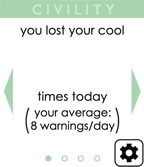
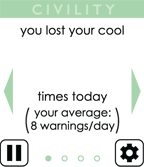
save functions

Changed region(s): [[0.0, 0.8084, 0.2222, 1.0], [0.8333, 0.8383, 1.0, 1.0], [0.7778, 0.8383, 0.8333, 1.0]]

diff --git a/main.html b/main.html
@@ -11,19 +11,18 @@
 </head>
 <body>
     <div class="background">
-        <img src="Images/warning_total.png">
-
-        <div class="bars_container">
-            <div class="bar1"><p class="bar_descrip">9/20: </p><p class="bar_val">5</p></div>
-            <div class="bar2"><p class="bar_descrip">9/19: </p><p class="bar_val">10</p></div>
-            <div class="bar3"><p class="bar_descrip">9/18: </p><p class="bar_val">8</p></div>
-            <div class="bar4"><p class="bar_descrip">9/17: </p><p class="bar_val">9</p></div>
+        <img src="Images/warning_home.png">
+        <div id="count_container">
+            <p id="count">0</p>
         </div>
 
-        <a href="main.html" class="right"><img src="Images/r_arrow.png"></a>
-        <a href="speed.html" class="left"><img src="Images/l_arrow.png"></a>
+        <a href="volume.html" class="right"><img src="Images/r_arrow.png"></a>
+        <a href="total.html" class="left"><img src="Images/l_arrow.png"></a>
+        <a href="settings.html" id="settings_button"><img src ="Images/settings_button.png"></a>
+        <a href="paused.html"><button id="pause_button"></button></a>
         <button id="test">test v</button>
         <button id="test2">test s</button>
+        <button id="increment_count">count+</button>
     </div>
      <div id="pop_up_cont">
         <img src="Images/volume_pop_up.png" id="volume_p">
@@ -32,12 +31,33 @@
     </div>
     <script>
         var fb_ref = new Firebase('https://blistering-fire-8006.firebaseio.com/');
+        var data = new Firebase('https://data-storage.firebaseio.com/');
         fb_ref.onDisconnect().remove();
+        var count = document.getElementById('count');
+        var count_button = document.getElementById('increment_count');
         var test_vol_button = document.getElementById('test');
         var test_speed_button = document.getElementById('test2');
         var vol_pop = document.getElementById('volume_p');
         var speed_pop = document.getElementById('speed_p');
         var ex = document.getElementById('exit');
+
+        <!-- load the previous value -->
+        var count_ref = new Firebase('https://data-storage.firebaseio.com/count');
+        count_ref.on('value', function(snapshot) {
+            if (snapshot.val() != null) {
+                var update_val = snapshot.val().value;
+                if (update_val != null) {
+                    count.innerHTML = update_val;
+                }
+            }
+        });
+
+        count_button.onclick=function() {
+            var new_val = parseInt(count.innerHTML) + 1;
+            count.innerHTML = new_val;
+            console.log(new_val);
+            count_ref.set({value: new_val});
+        }
         ex.onclick=function() {
             pop_up_cont.style.display = 'none';
             vol_pop.style.display = 'none';

diff --git a/speed.html b/speed.html
@@ -6,6 +6,8 @@
 <head>
     <title>Civility Speed</title>
     <link rel="stylesheet" type="text/css" href="CSS/general.css">
+    <script src='https://cdn.firebase.com/js/client/1.1.1/firebase.js'></script>
+    <script src='https://ajax.googleapis.com/ajax/libs/jquery/1.9.0/jquery.min.js'></script>
 </head>
 <body>
     <div class="background">
@@ -20,5 +22,47 @@
 
         <a href="total.html" class="right"><img src="Images/r_arrow.png"></a>
         <a href="volume.html" class="left"><img src="Images/l_arrow.png"></a>
+        <button id="test">test v</button>
+        <button id="test2">test s</button>
     </div>
+     <div id="pop_up_cont">
+        <img src="Images/volume_pop_up.png" id="volume_p">
+        <img src="Images/wpm_pop_up.png" id="speed_p">
+        <button id="exit"></button>
+    </div>
+    <script>
+        var fb_ref = new Firebase('https://blistering-fire-8006.firebaseio.com/');
+        fb_ref.onDisconnect().remove();
+        var test_vol_button = document.getElementById('test');
+        var test_speed_button = document.getElementById('test2');
+        var vol_pop = document.getElementById('volume_p');
+        var speed_pop = document.getElementById('speed_p');
+        var ex = document.getElementById('exit');
+        ex.onclick=function() {
+            pop_up_cont.style.display = 'none';
+            vol_pop.style.display = 'none';
+            speed_pop.style.display = 'none';
+        }
+        var counter = 0;
+        test_vol_button.onclick=function(){
+            fb_ref.push({name:'v'+counter, value:'v'});
+            counter += 1;
+        };
+        test_speed_button.onclick=function(){
+            fb_ref.push({name:'s'+counter, value:'s'});
+            counter += 1;
+        };
+        fb_ref.on('child_added', function(snapshot) {
+            if (snapshot.val().value =='v') {
+                speed_pop.style.display = 'none';
+                pop_up_cont.style.display = 'block';
+                vol_pop.style.display = 'block';
+            }
+            if (snapshot.val().value == 's') {
+                vol_pop.style.display = 'none';
+                pop_up_cont.style.display = 'block';
+                speed_pop.style.display = 'block';
+            }
+        });
+    </script>
 </body> 

diff --git a/volume.html b/volume.html
@@ -20,8 +20,9 @@
         </div>
 
         <a href="speed.html" class="right"><img src="Images/r_arrow.png"></a>
-        <a href="index.html" class="left"><img src="Images/l_arrow.png"></a>
-        <button id="test">test</button>
+        <a href="main.html" class="left"><img src="Images/l_arrow.png"></a>
+        <button id="test">test v</button>
+        <button id="test2">test s</button>
     </div>
     <div id="pop_up_cont">
         <img src="Images/volume_pop_up.png" id="volume_p">
@@ -30,7 +31,9 @@
     </div>
     <script>
         var fb_ref = new Firebase('https://blistering-fire-8006.firebaseio.com/');
-        var test_button = document.getElementById('test');
+        fb_ref.onDisconnect().remove();
+        var test_vol_button = document.getElementById('test');
+        var test_speed_button = document.getElementById('test2');
         var vol_pop = document.getElementById('volume_p');
         var speed_pop = document.getElementById('speed_p');
         var ex = document.getElementById('exit');
@@ -39,16 +42,22 @@
             vol_pop.style.display = 'none';
             speed_pop.style.display = 'none';
         }
-        test_button.onclick=function(){
-            fb_ref.set({name:'click', text:'click'});
+        var counter = 0;
+        test_vol_button.onclick=function(){
+            fb_ref.push({name:'v'+counter, value:'v'});
+            counter += 1;
+        };
+        test_speed_button.onclick=function(){
+            fb_ref.push({name:'s'+counter, value:'s'});
+            counter += 1;
         };
         fb_ref.on('child_added', function(snapshot) {
-            if (snapshot.val() =='v') {
+            if (snapshot.val().value =='v') {
                 speed_pop.style.display = 'none';
                 pop_up_cont.style.display = 'block';
                 vol_pop.style.display = 'block';
             }
-            if (snapshot.val() == 's') {
+            if (snapshot.val().value == 's') {
                 vol_pop.style.display = 'none';
                 pop_up_cont.style.display = 'block';
                 speed_pop.style.display = 'block';

diff --git a/CSS/general.css b/CSS/general.css
@@ -1,3 +1,45 @@
+#f_print {
+    position: relative;
+    border-radius: 50%;
+    height: 65px;
+    width: 65px;
+    left: -108px;
+    top: -10px;
+    background-color: transparent;
+}
+
+#mic {
+    position: relative;
+    height: 60px;
+    width: 60px;
+    background-color: transparent;
+    left: -106px;
+    top: -19px;
+    border: none;
+}
+
+#correct_name {
+    position: relative;
+    width: 132px;
+    height: 34px;
+    background-color: transparent;
+    left: -142px;
+    top: -50px;
+    border: none;
+}
+
+#wrong_name {
+    position: relative;
+    width: 132px;
+    height: 34px;
+    background-color: transparent;
+    left: -278px;
+    top: -11px;
+    border: none;
+}
+
+
+
 .background {
     position: relative;
 }
@@ -16,6 +58,31 @@
     position: absolute;
     top: 64px;
     left: 129px;
+}
+
+#settings_button {
+    position: relative;
+    left: -34px;
+}
+
+#pause_button {
+    position: relative;
+    height: 29px;
+    width: 29px;
+    left: -182px;
+    top: -4px;
+    background-color: transparent;
+    border: none;
+}
+
+#play_button {
+    position: relative;
+    height: 29px;
+    width: 29px;
+    left: -148px;
+    top: -4px;
+    background-color: transparent;
+    border: none;
 }
 
 .bars_container {
@@ -111,6 +178,7 @@
 }
 
 #pop_up_cont {
+    width: 144px;
     display: none;
     position: relative;
     top: -172px;

diff --git a/paused.html b/paused.html
@@ -9,7 +9,10 @@
 </head>
 <body>
     <div class="background">
-        <img src="Images/sign_up_1.png">
-        <a href="sign_up_2.html"><button id="f_print"></button></a>
+        <img src="Images/paused.png">
+        <div id="count_container">
+            <p id="count">5</p>
+        </div>
+        <a href="main.html"><button id="play_button"></button></a>
     </div>
 </body> 

diff --git a/sign_up_3.html b/sign_up_3.html
@@ -9,7 +9,8 @@
 </head>
 <body>
     <div class="background">
-        <img src="Images/sign_up_1.png">
-        <a href="sign_up_2.html"><button id="f_print"></button></a>
+        <img src="Images/sign_up_3.png">
+        <a href="main.html"><button id="correct_name"></button></a>
+        <a href="sign_up_2.html"><button id="wrong_name"></button></a>
     </div>
 </body> 

diff --git a/sign_up_2.html b/sign_up_2.html
@@ -9,7 +9,7 @@
 </head>
 <body>
     <div class="background">
-        <img src="Images/sign_up_1.png">
-        <a href="sign_up_2.html"><button id="f_print"></button></a>
+        <img src="Images/sign_up_2.png">
+        <a href="sign_up_3.html"><button id="mic"></button></a>
     </div>
 </body> 
